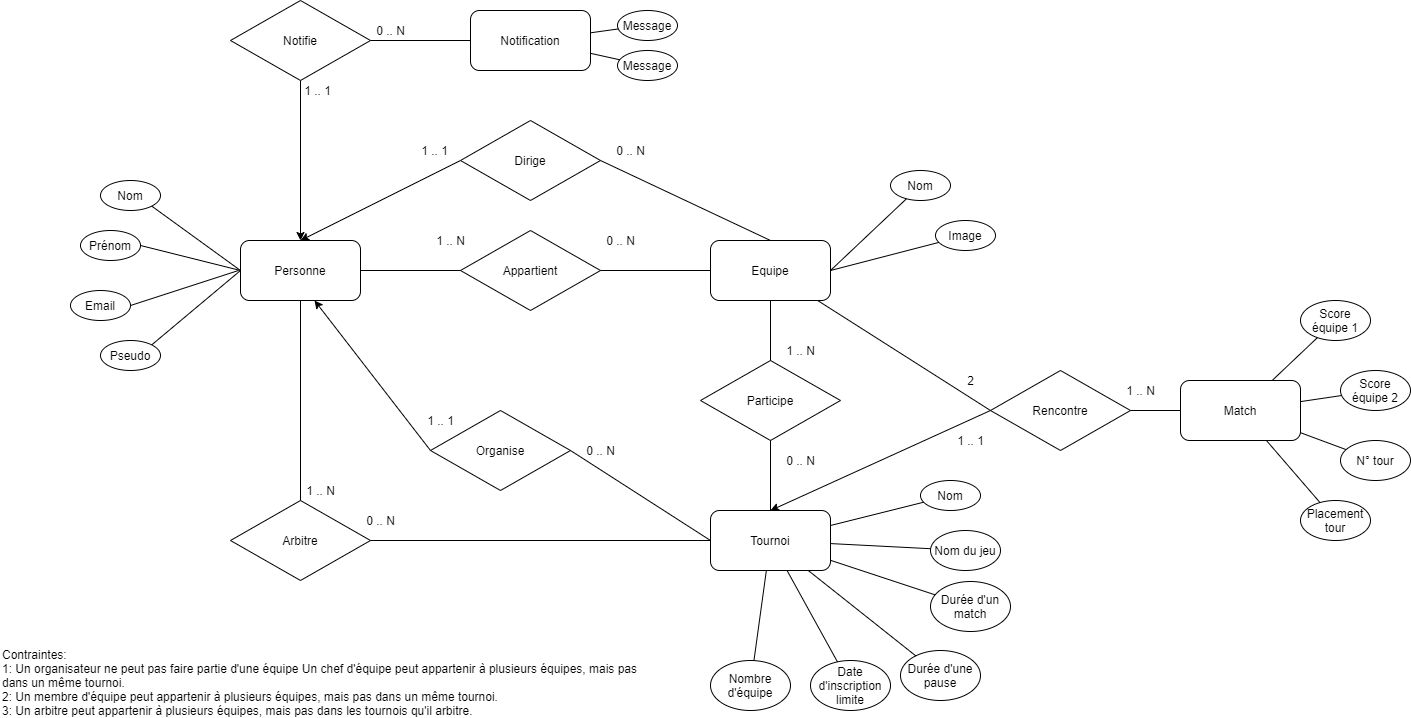
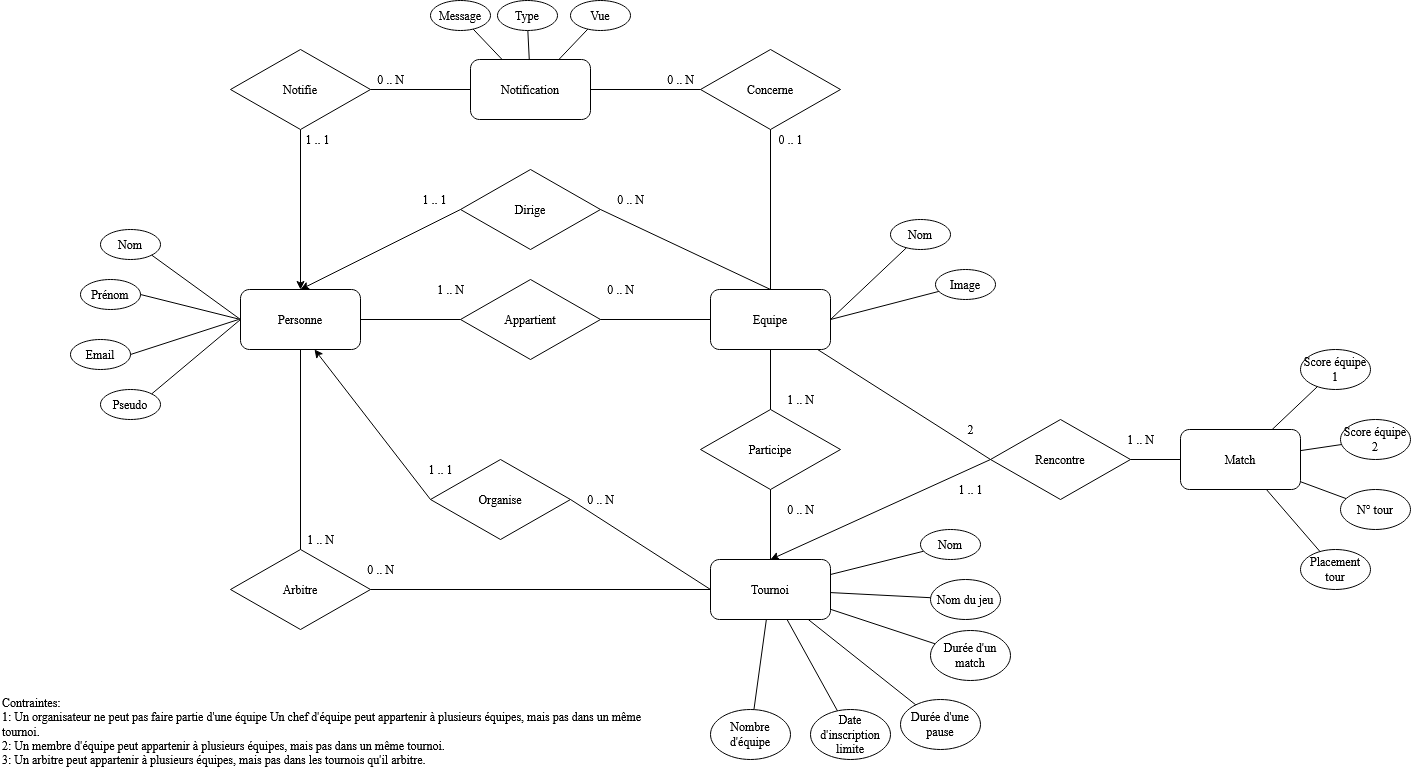
Change notification model

diff --git a/backend/api/migrations/0007_auto_20210322_1404.py b/backend/api/migrations/0007_auto_20210322_1404.py
@@ -1,0 +1,24 @@
+# Generated by Django 3.1.7 on 2021-03-22 13:04
+
+from django.db import migrations, models
+import django.db.models.deletion
+
+
+class Migration(migrations.Migration):
+
+    dependencies = [
+        ('api', '0006_auto_20210319_1543'),
+    ]
+
+    operations = [
+        migrations.AddField(
+            model_name='notification',
+            name='notificationType',
+            field=models.CharField(default='MESSAGE', max_length=20),
+        ),
+        migrations.AddField(
+            model_name='notification',
+            name='team',
+            field=models.ForeignKey(null=True, on_delete=django.db.models.deletion.CASCADE, to='api.team'),
+        ),
+    ]

diff --git a/backend/api/models/notificationmodel.py b/backend/api/models/notificationmodel.py
@@ -1,11 +1,14 @@
 from django.db import models
 from django.contrib.auth.models import User
 from django.db.models.signals import post_save, post_delete
+from .teammodel import Team
 
 class Notification(models.Model):
 	message = models.CharField(max_length=1000)
 	seen = models.BooleanField(default=False)
+	notificationType = models.CharField(max_length=20, default="MESSAGE")
 	user = models.ForeignKey(User, on_delete=models.CASCADE)
+	team = models.ForeignKey(Team, on_delete=models.CASCADE, null=True)
 
 	def __str__(self):
 		return self.name

diff --git a/backend/api/serializers.py b/backend/api/serializers.py
@@ -36,4 +36,4 @@ class TournamentSerializer(serializers.HyperlinkedModelSerializer):
 class NotificationSerializer(serializers.HyperlinkedModelSerializer):
     class Meta:
         model = Notification
-        fields = ['url', 'id', 'user', 'seen', 'message']
+        fields = ['url', 'id', 'user', 'team', 'seen', 'notificationType', 'message']
